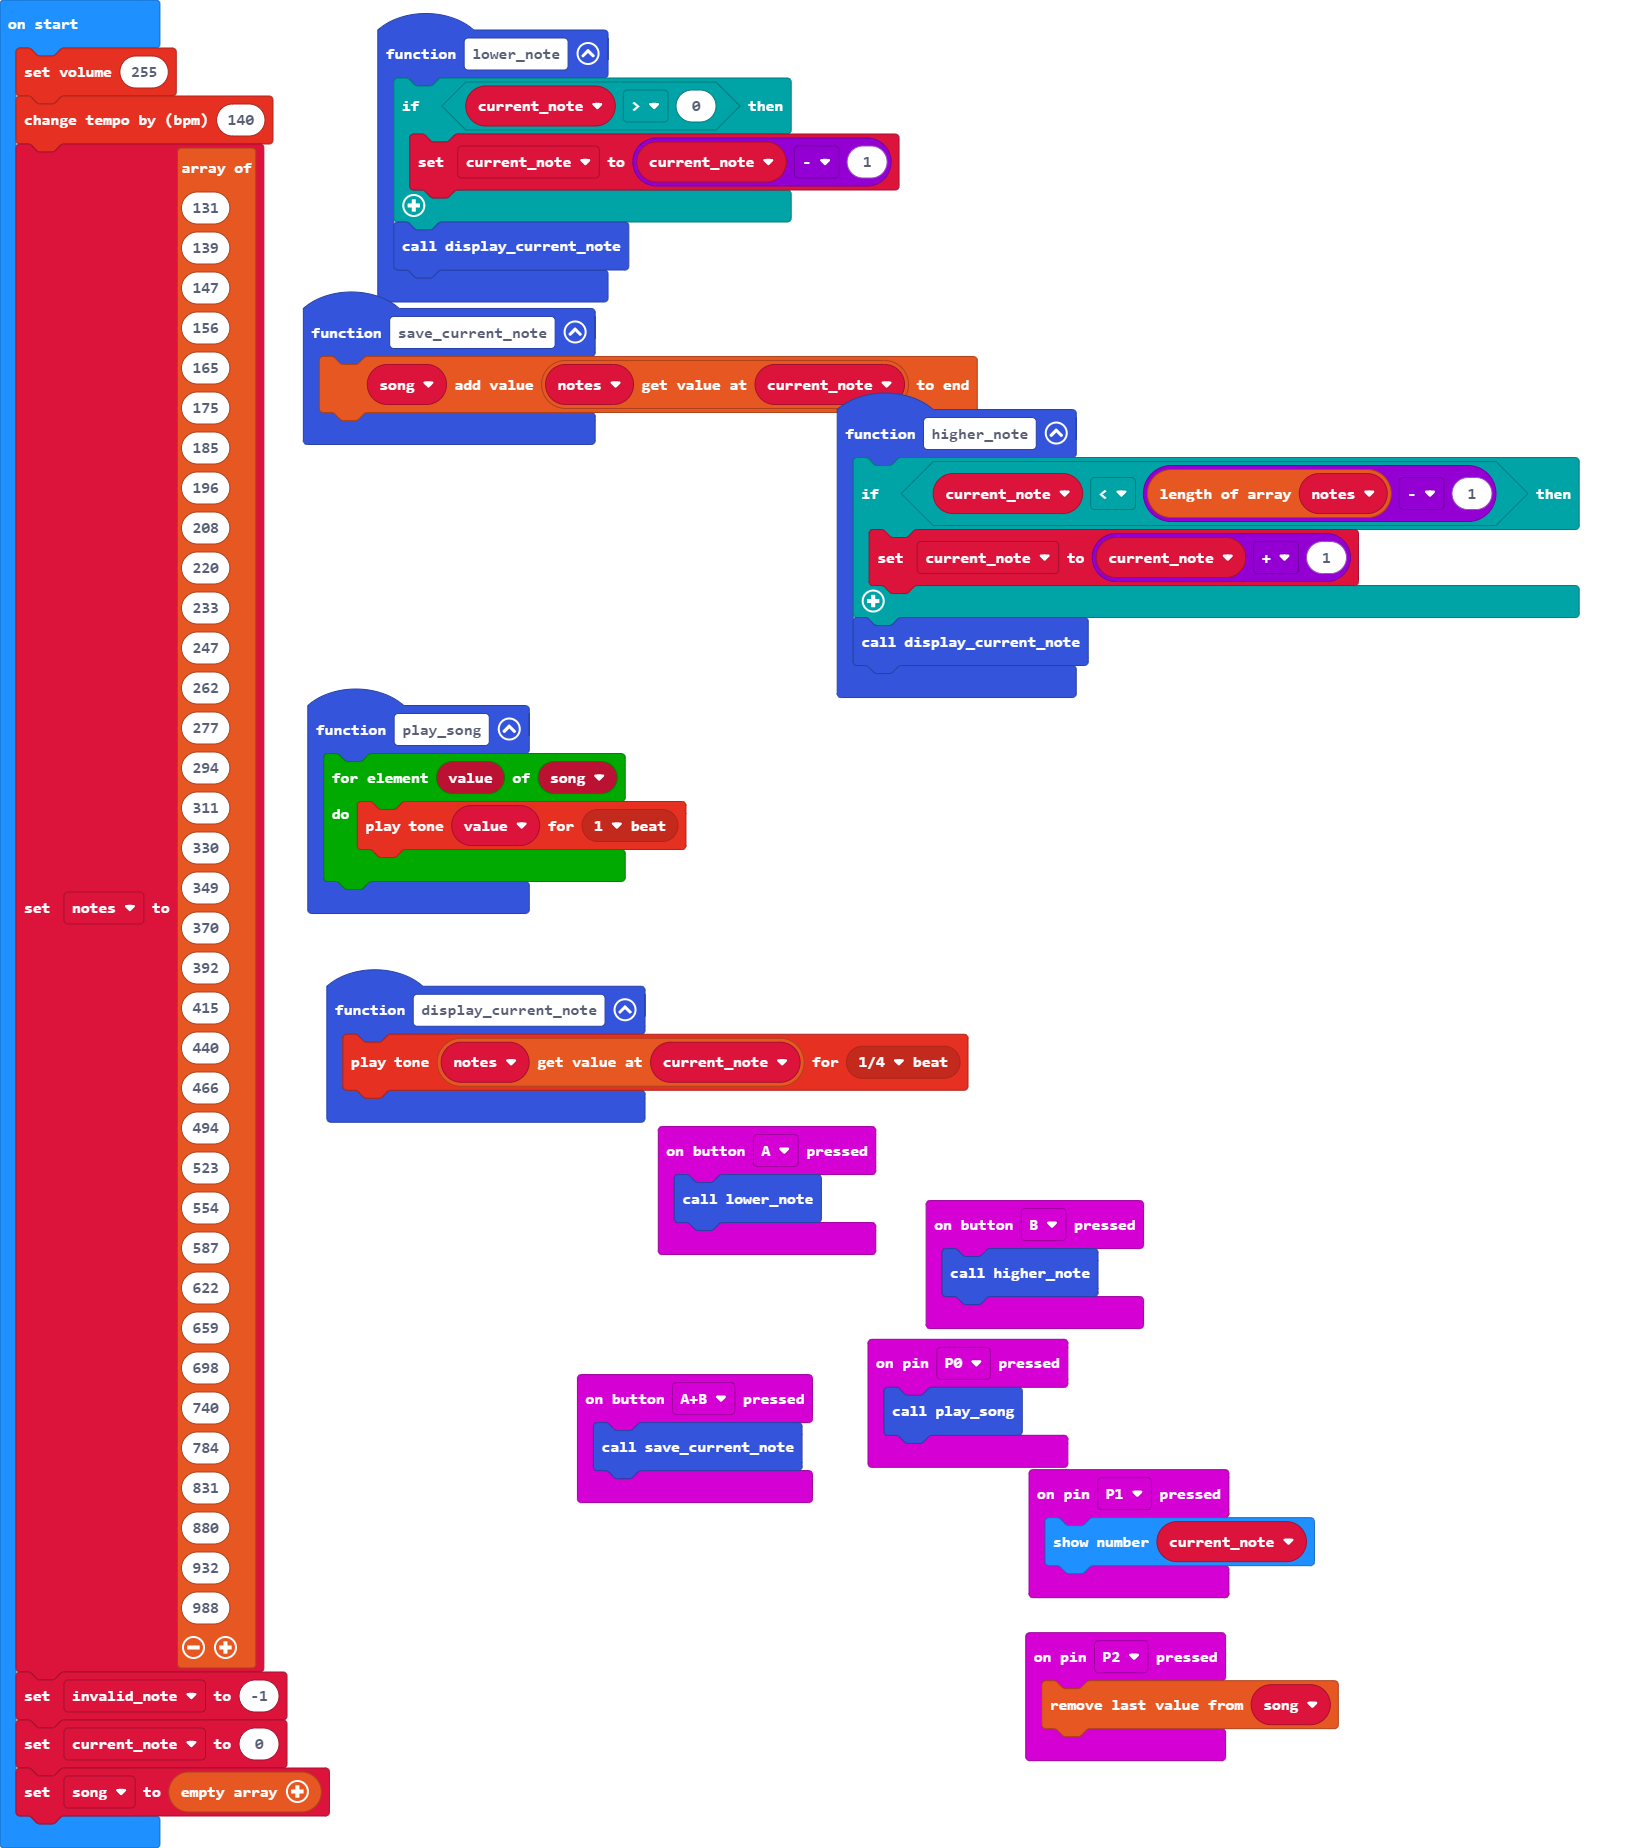
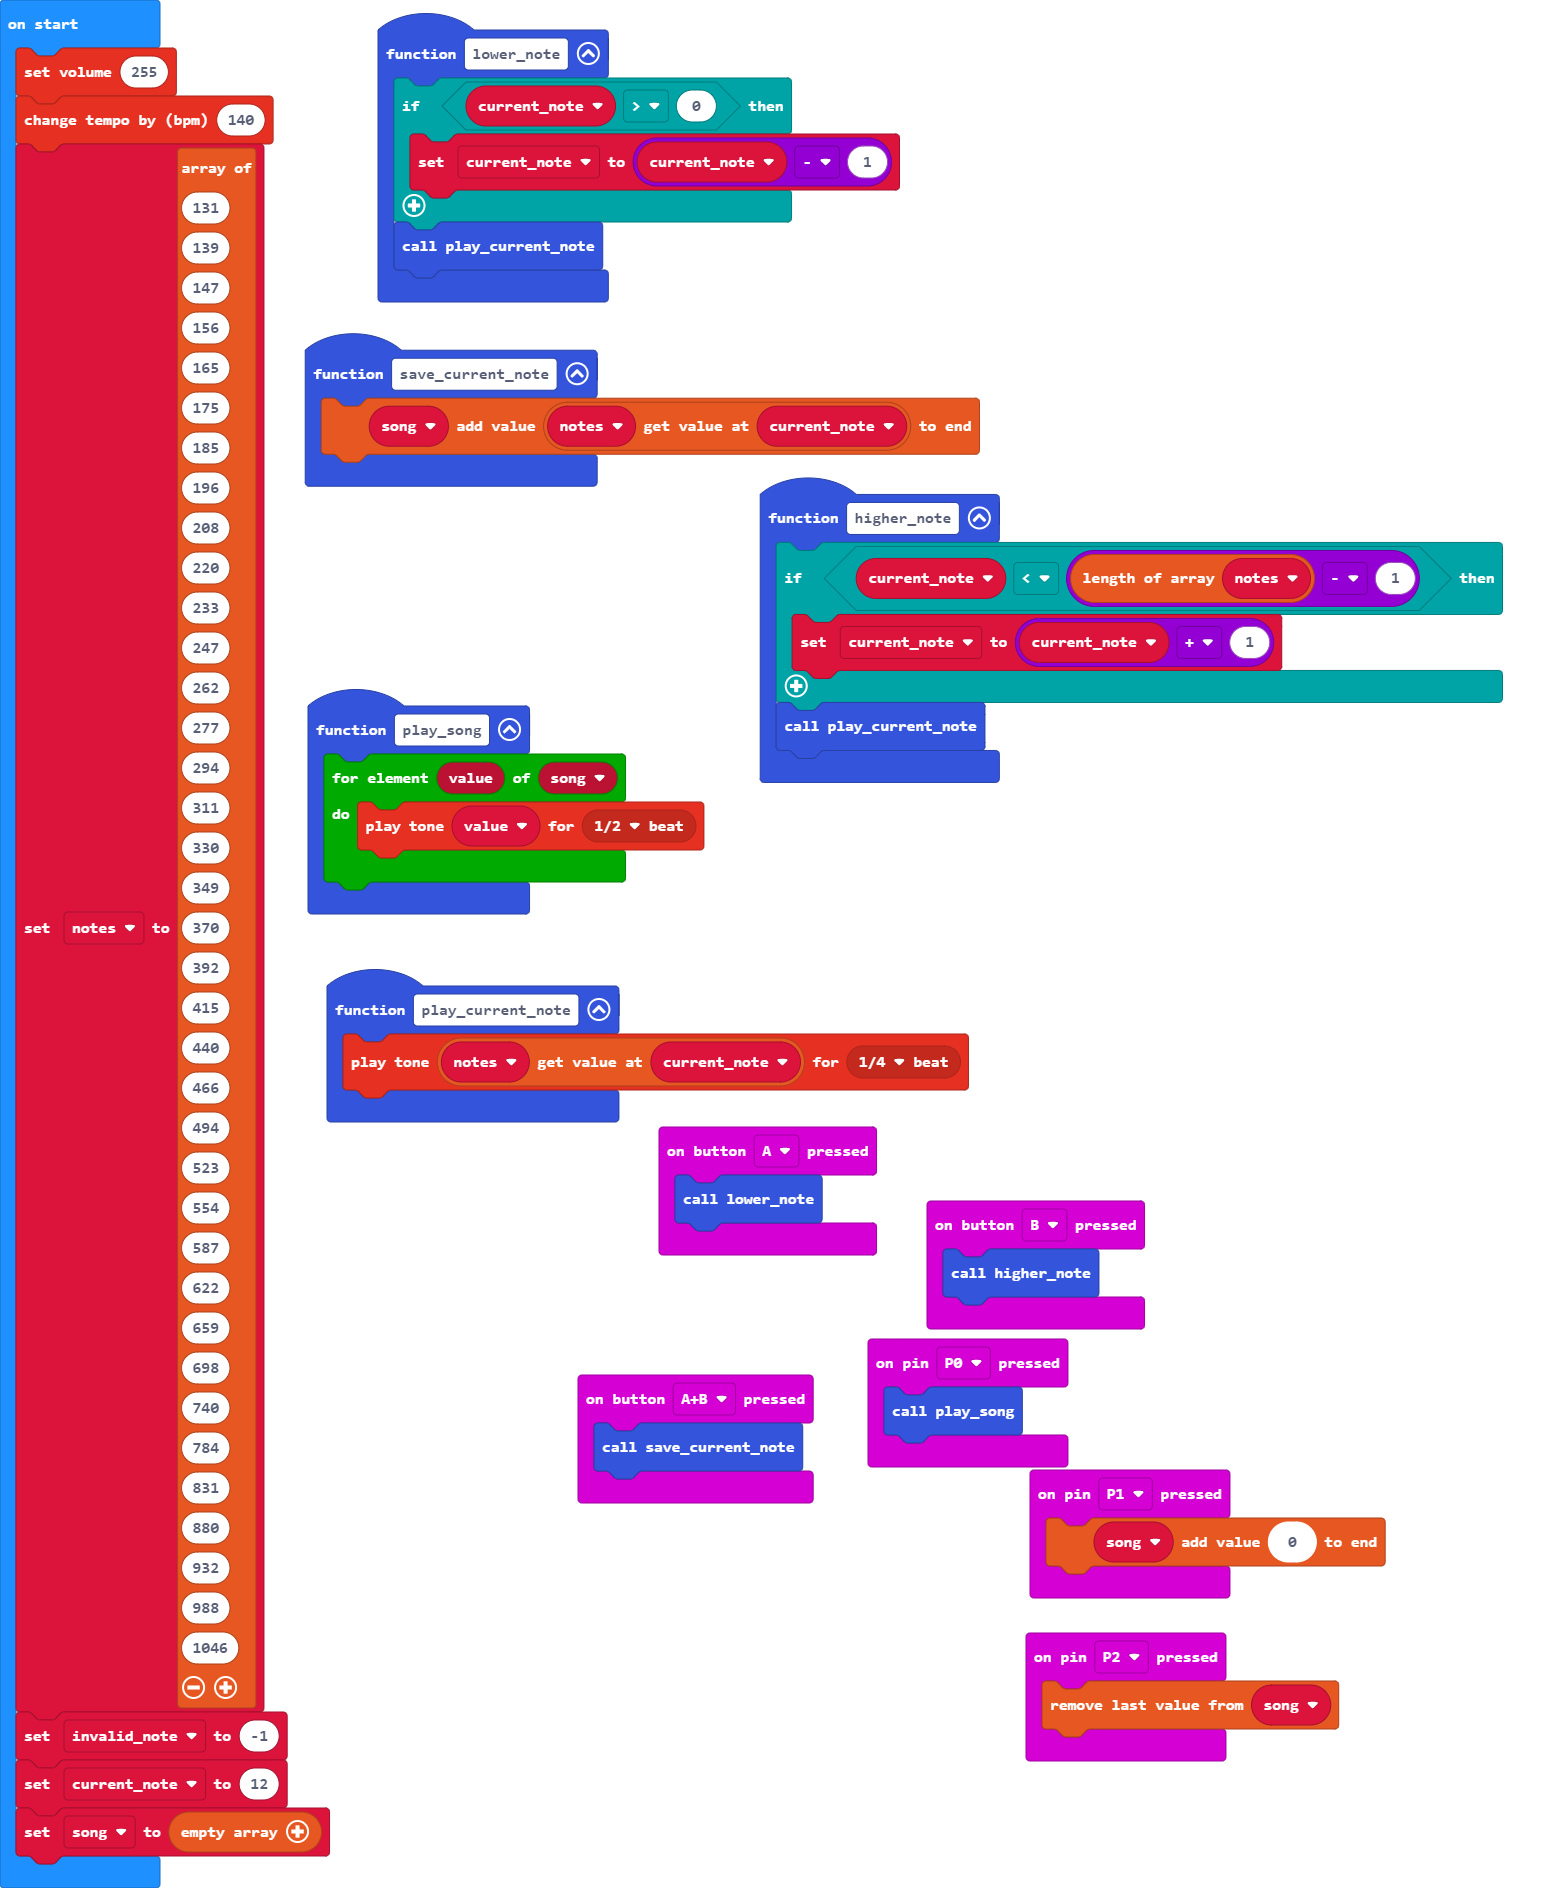
Update pxt.json, main.blocks, main.ts

Changed region(s): [[0.0, 0.0, 0.9884, 1.0]]

diff --git a/main.ts b/main.ts
@@ -1,9 +1,6 @@
 input.onPinPressed(TouchPin.P0, function () {
     play_song()
 })
-function display_current_note () {
-    music.playTone(notes[current_note], music.beat(BeatFraction.Quarter))
-}
 input.onButtonPressed(Button.A, function () {
     lower_note()
 })
@@ -11,7 +8,7 @@ function lower_note () {
     if (current_note > 0) {
         current_note = current_note - 1
     }
-    display_current_note()
+    play_current_note()
 }
 input.onPinPressed(TouchPin.P2, function () {
     song.pop()
@@ -26,25 +23,28 @@ input.onButtonPressed(Button.B, function () {
     higher_note()
 })
 input.onPinPressed(TouchPin.P1, function () {
-    basic.showNumber(current_note)
+    song.push(0)
 })
+function play_current_note () {
+    music.playTone(notes[current_note], music.beat(BeatFraction.Quarter))
+}
 function play_song () {
     for (let value of song) {
-        music.playTone(value, music.beat(BeatFraction.Whole))
+        music.playTone(value, music.beat(BeatFraction.Half))
     }
 }
 function higher_note () {
     if (current_note < notes.length - 1) {
         current_note = current_note + 1
     }
-    display_current_note()
+    play_current_note()
 }
 let song: number[] = []
 let current_note = 0
 let notes: number[] = []
 music.setVolume(255)
 music.changeTempoBy(140)
-notes = [131, 139, 147, 156, 165, 175, 185, 196, 208, 220, 233, 247, 262, 277, 294, 311, 330, 349, 370, 392, 415, 440, 466, 494, 523, 554, 587, 622, 659, 698, 740, 784, 831, 880, 932, 988]
+notes = [131, 139, 147, 156, 165, 175, 185, 196, 208, 220, 233, 247, 262, 277, 294, 311, 330, 349, 370, 392, 415, 440, 466, 494, 523, 554, 587, 622, 659, 698, 740, 784, 831, 880, 932, 988, 1046]
 let invalid_note = -1
-current_note = 0
+current_note = 12
 song = []
